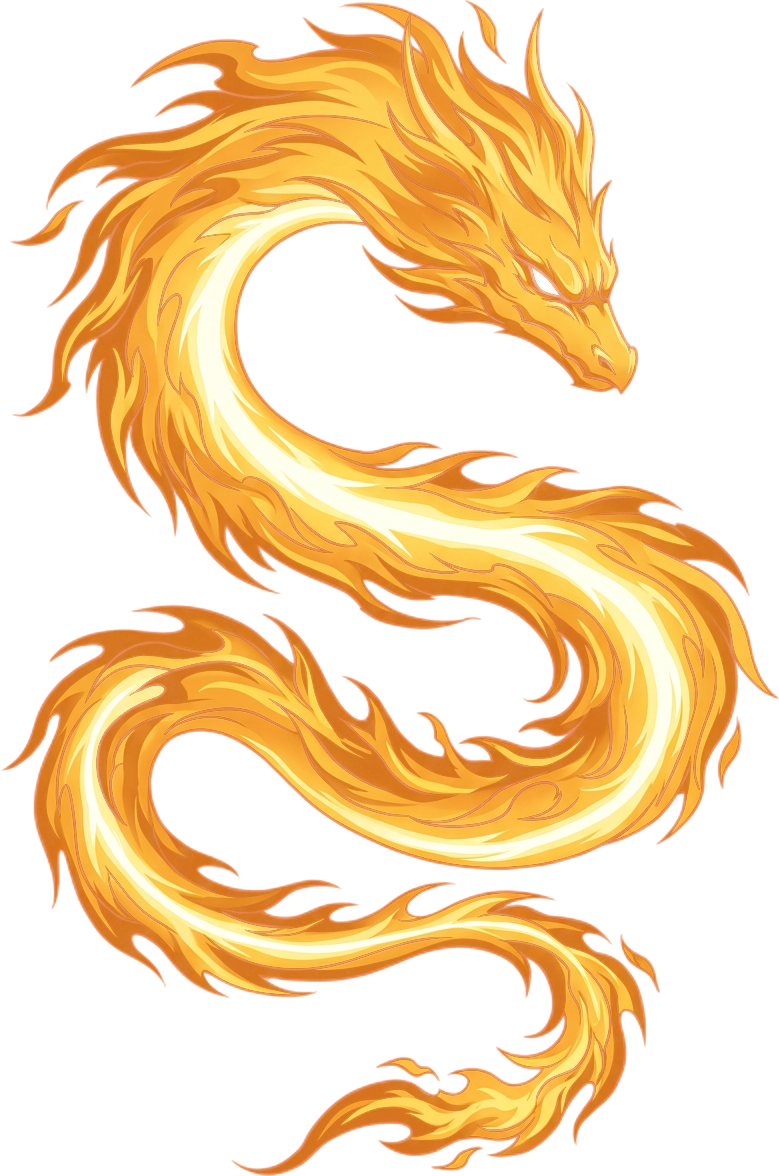
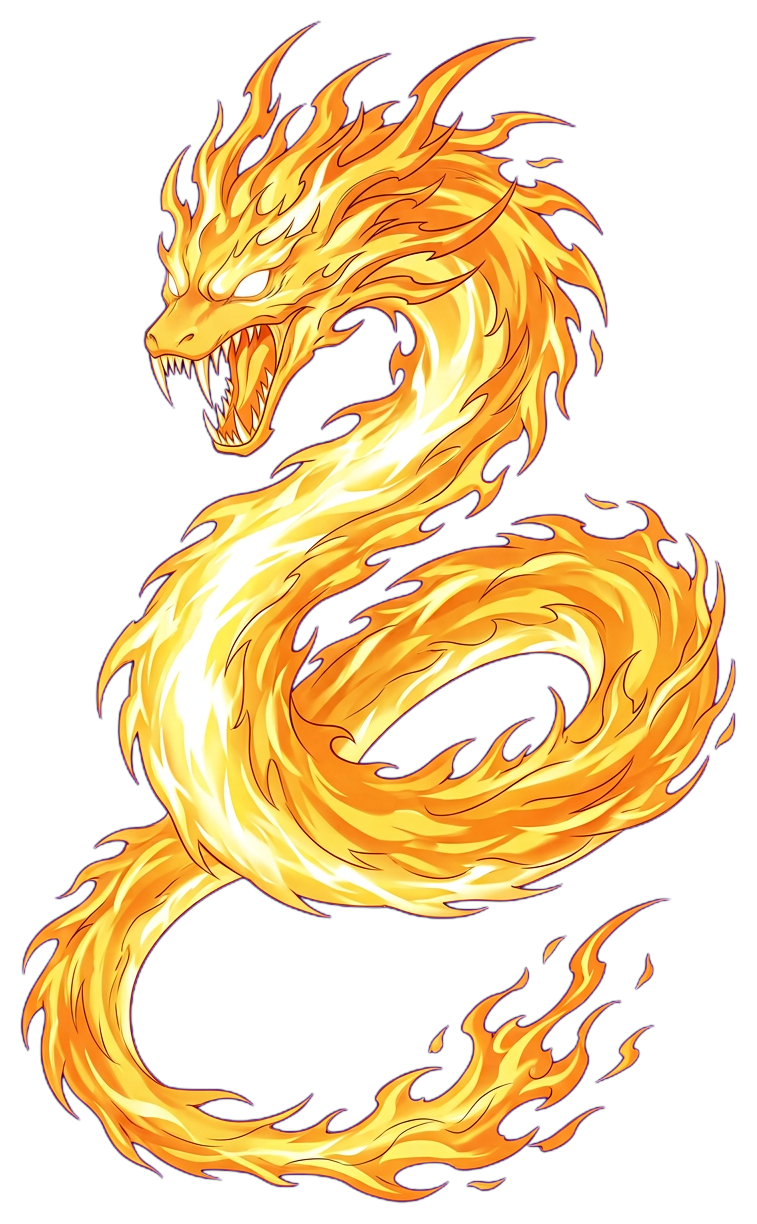
陨落心炎三形态按漫画(152/122/146话)

diff --git a/dev/design/漫画复核进度.md b/dev/design/漫画复核进度.md
@@ -85,6 +85,7 @@
 | 地魔老鬼 | dimo | 204-09/11（对白 Superior Mo / el viejo del Valle del Demonio） | ✅ 一致（灰皮光头尖耳、额头红疤、深褐骷髅纹斗篷、红围巾、灰白长袍） |
 | 韩枫（黑角域终战） | hanfeng | 204-09/11/14（对白 ¡Han Feng!）+fandom | ❌→已重画（原为白风衣；漫画为绿色波浪长发、脸上红疤、赤裸上身满布暗色疤纹、褐色腰布、深绿长裤两侧黑色破布摆） |
 | 范凌 | fanling | 100-19（字幕 Líder de la secta de sangre - Fan Ling） | 🔧→已重画（去掉红色长外套；漫画为红衬衫+灰白双排扣马甲、黑色褶边领巾+红宝石扣、白十字吊坠、尖耳） |
+| 陨落心炎（三形态） | fire_xinyan_core / fire_xinyan / fire_xinyan_rage | 152-17；122-03/04/05（字幕 C'est un esprit de flamme… la flamme du cœur déchu）；146 封面/146-06/08 | 🔧/🆕 形态2按漫画重画（去掉龙角龙须，改为獠牙+火焰冠脊的金色火焰蛇龙）；形态1 塔底封印火球、形态3 暴走赤红火焰巨兽为新画。用纯蓝底抠图，形态1符文圈残留紫色已调为红色 |
 
 ## 用户决定（2026-09-27）
 - 凌影：选A——用第63话蒙面兜帽样子。

diff --git a/dev/design/Boss形态清单.md b/dev/design/Boss形态清单.md
@@ -26,7 +26,7 @@
 ## 第三章 · 迦南学院
 | Boss | 形态 1 | 形态 2 | 形态 3 |
 |---|---|---|---|
-| 陨落心炎 | ⬜ **原著**：天焚炼气塔底的无形心火（漂浮的淡金火种） | ✅ **原著（漫画）**：火焰蛇形 | ⬜ **原著（漫画）**：暴走巨形火灵（参考漫画大火灵画面） |
+| 陨落心炎 | ✅ 塔底封印火种（fire_xinyan_core，按漫画152-17） | ✅ 火灵·金色火焰蛇龙（fire_xinyan，按漫画122-03/04/05重画） | ✅ 暴走巨形火灵·赤红火焰巨兽（fire_xinyan_rage，按漫画146封面/146-06/08） |
 | 心魔 | ⬜ 黑化萧炎：暗色衣袍、红眼、黑焰（原创，按萧炎模板） | ⬜ 二阶段：心魔实体化 | — |
 
 ## 第四章 · 黑角域 / 云岚覆灭
